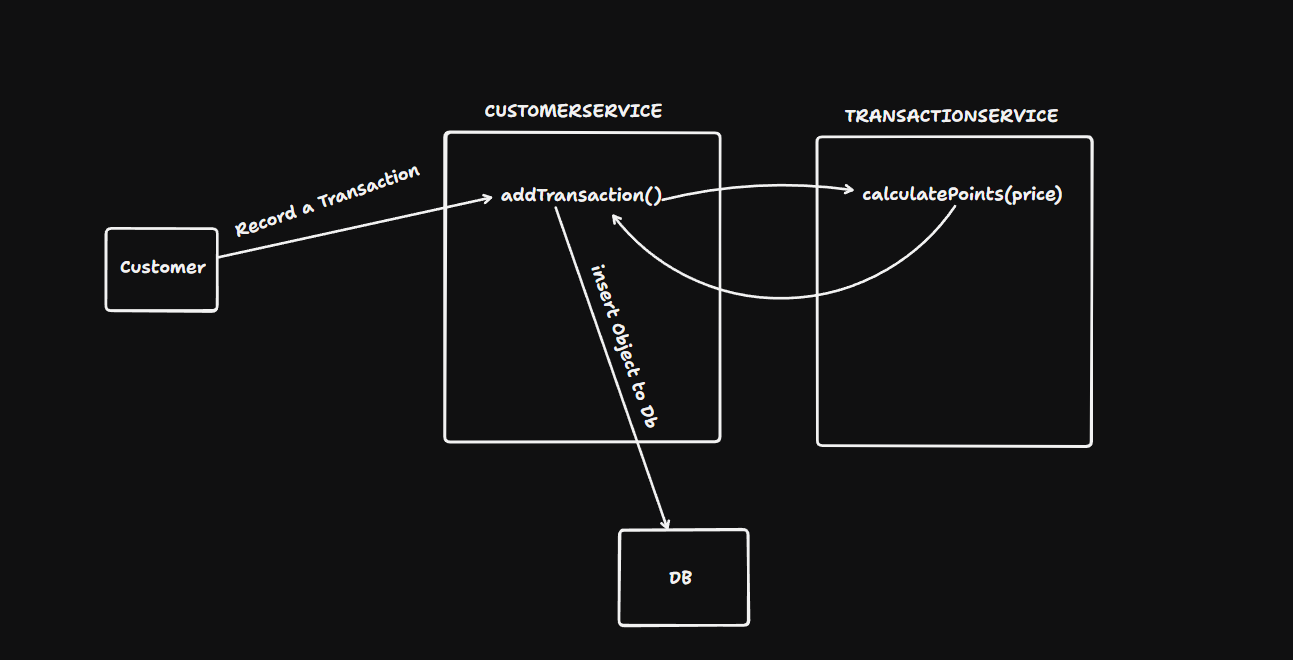
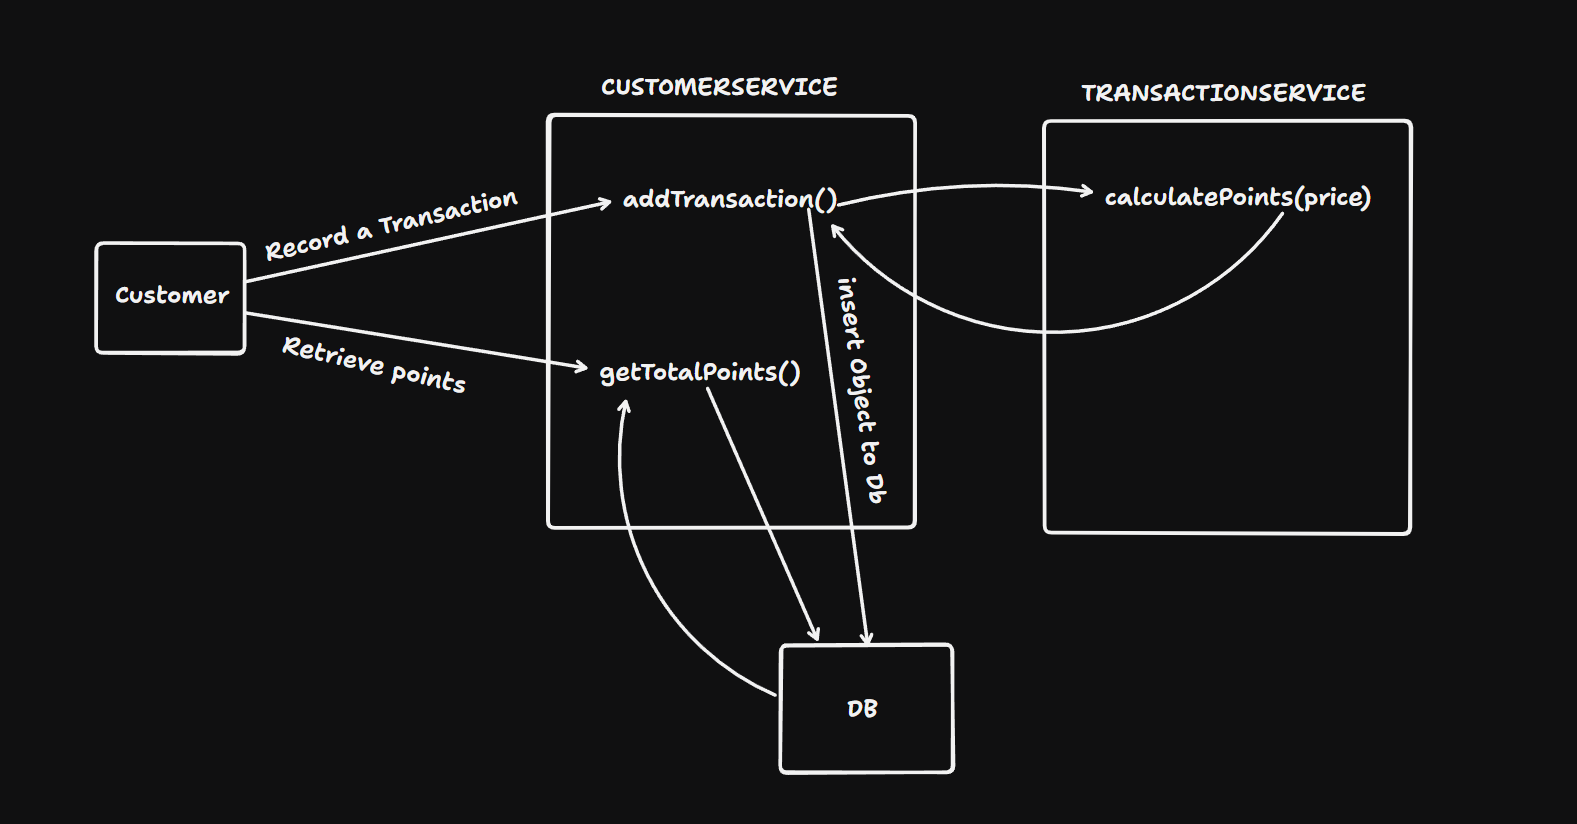
update README file

Changed region(s): [[0.0619, 0.0909, 0.8971, 0.9697]]

diff --git a/README.md b/README.md
@@ -48,7 +48,7 @@ The use case diagram outlines the interactions between Gunther and the reward sy
 
 ![image](./public/sequence-diagram.png)
 
-This diagram shows how a customer's transaction is processed in the reward system. When a customer makes a purchase, the transaction is recorded by the CustomerService. It then calculates the reward points through the TransactionService and saves the transaction details, including the earned points, into the database.
+This diagram shows two sequences of interactions between Gunther and the reward system. The first sequence involves recording a new transaction, calculating the reward points, and saving the transaction details in the database. The second sequence demonstrates how Gunther can view customer earnings and redeem points.
 
 ## API Endpoints
 
